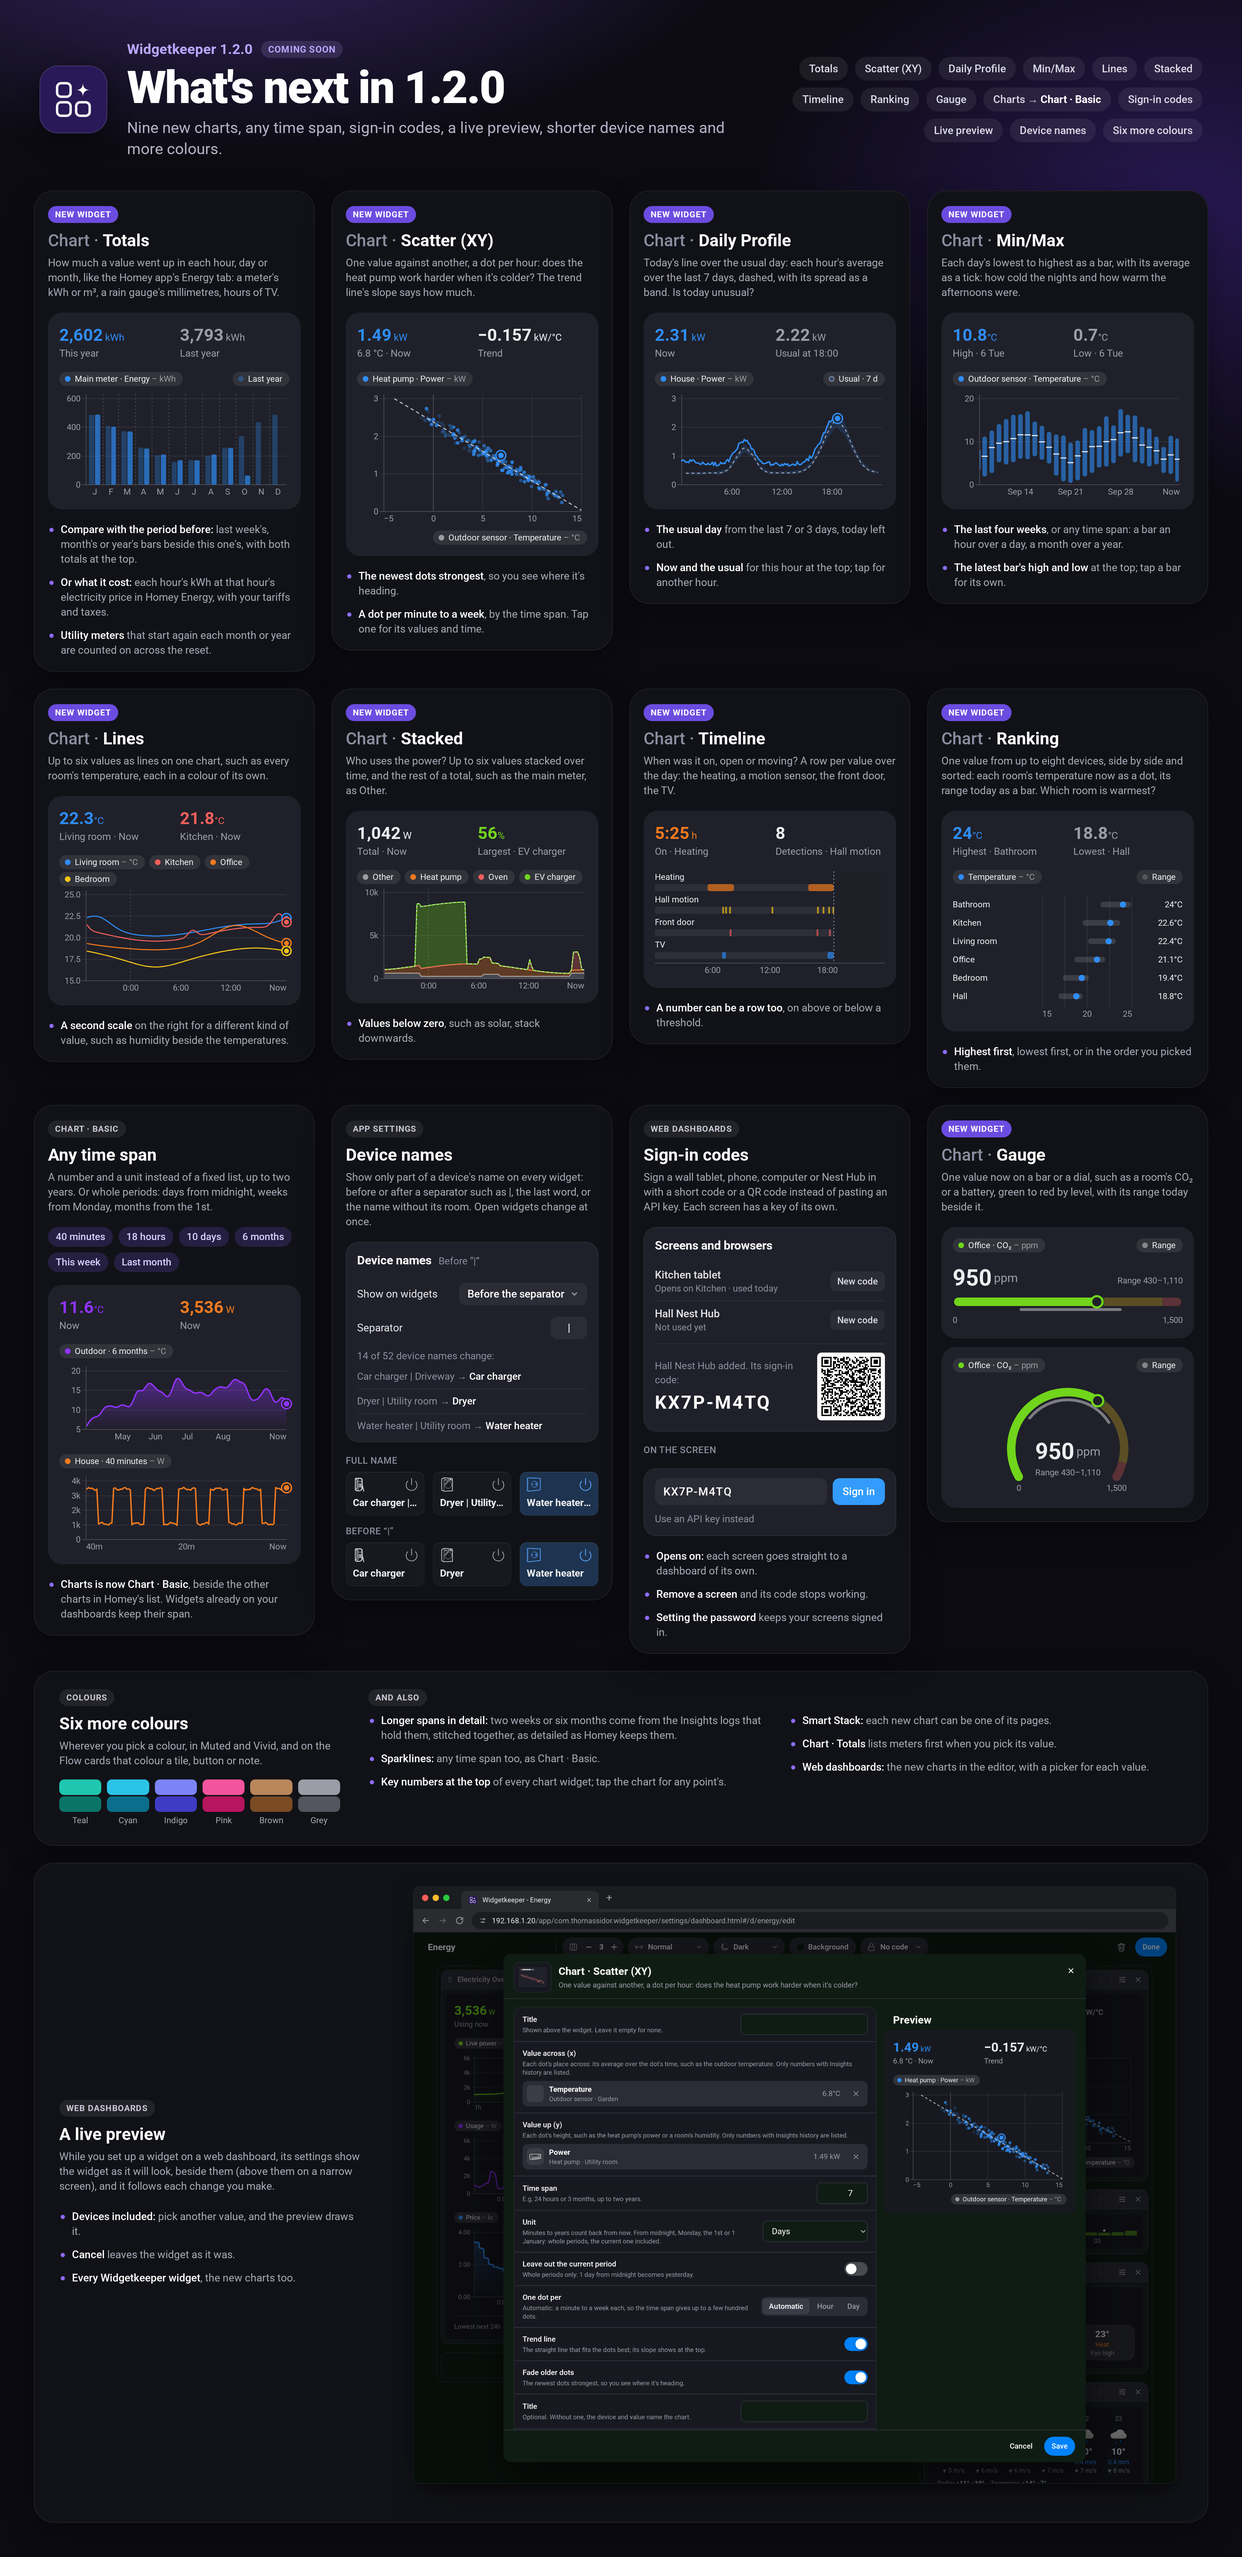
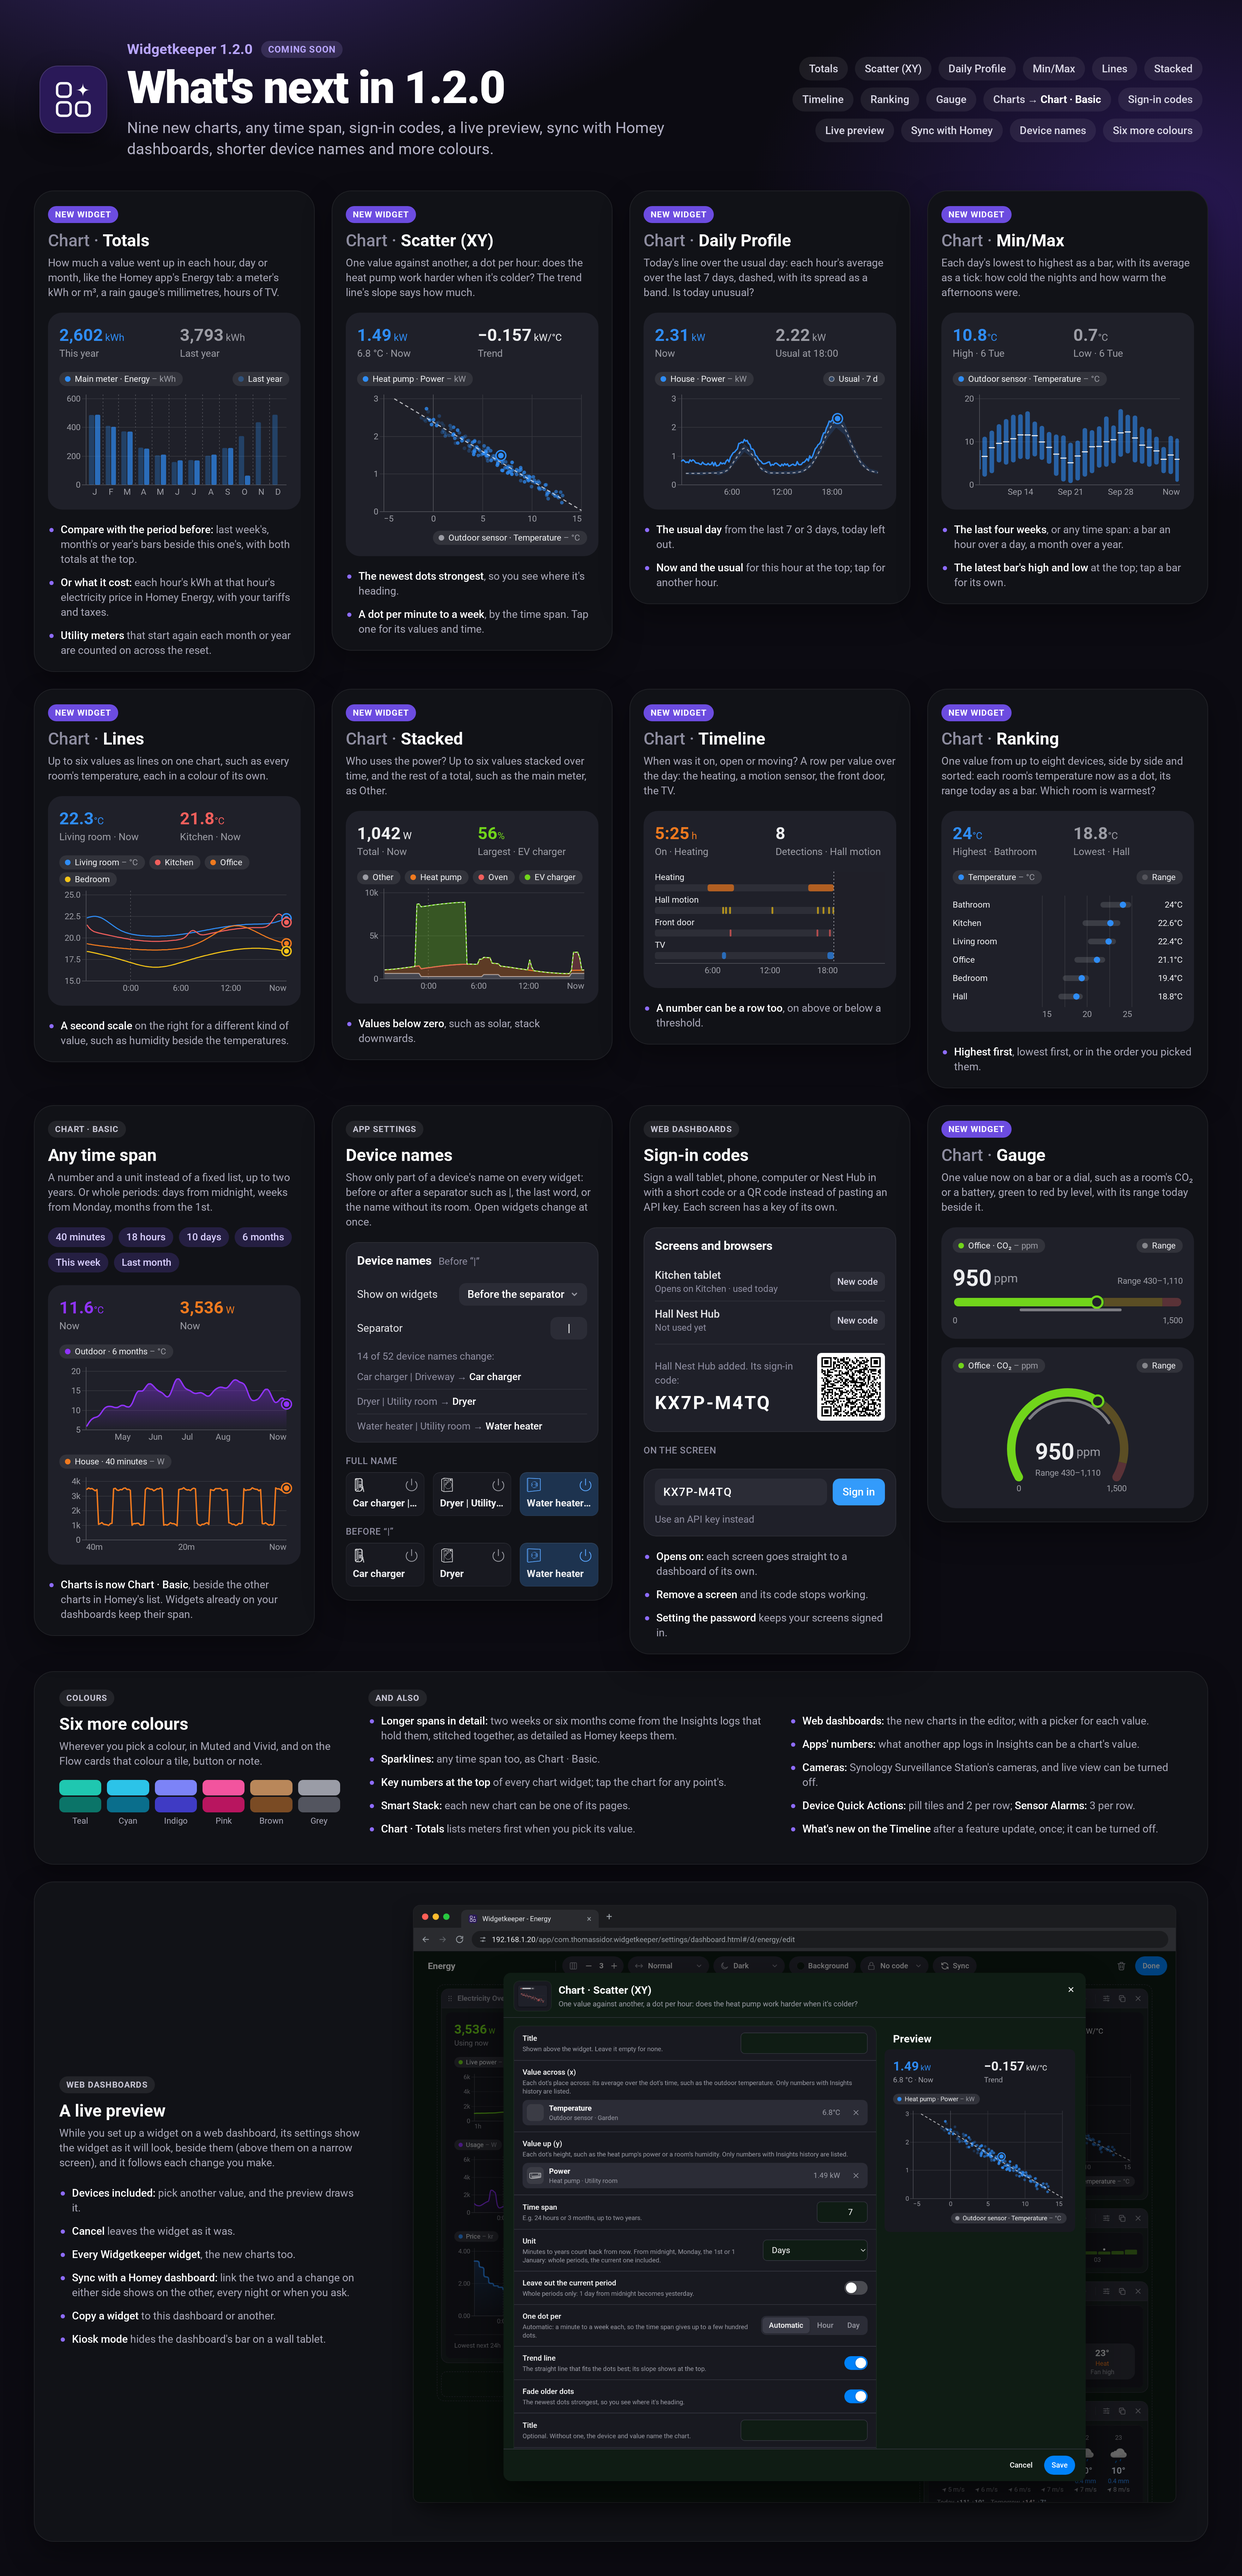
1.2.0 teaser: sync with Homey dashboards, copy a widget, kiosk mode and the rest of 1.2.0
The header and the web dashboards panel name syncing, copying a widget and kiosk mode; And also adds apps' logged
numbers as chart values, Cameras (Synology, live view off), Quick Actions' pill tiles and Sensor Alarms' 3 per row,
and the Timeline update notice. The live preview re-rendered, its toolbar now with Sync.

diff --git a/dev/whats-next-1.2.0.html b/dev/whats-next-1.2.0.html
@@ -173,12 +173,12 @@
     <div>
       <div class="eyebrow">Widgetkeeper 1.2.0 <span>Coming soon</span></div>
       <h1>What's next in 1.2.0</h1>
-      <p>Nine new charts, any time span, sign-in codes, a live preview, shorter device names and more colours.</p>
+      <p>Nine new charts, any time span, sign-in codes, a live preview, sync with Homey dashboards, shorter device names and more colours.</p>
     </div>
     <div class="chips">
       <span>Totals</span><span>Scatter (XY)</span><span>Daily Profile</span><span>Min/Max</span>
       <span>Lines</span><span>Stacked</span><span>Timeline</span><span>Ranking</span><span>Gauge</span>
-      <span>Charts → <b>Chart · Basic</b></span><span>Sign-in codes</span><span>Live preview</span><span>Device names</span><span>Six more colours</span>
+      <span>Charts → <b>Chart · Basic</b></span><span>Sign-in codes</span><span>Live preview</span><span>Sync with Homey</span><span>Device names</span><span>Six more colours</span>
     </div>
   </header>
 
@@ -386,6 +386,10 @@
         <li><b>Smart Stack:</b> each new chart can be one of its pages.</li>
         <li><b>Chart · Totals</b> lists meters first when you pick its value.</li>
         <li><b>Web dashboards:</b> the new charts in the editor, with a picker for each value.</li>
+        <li><b>Apps' numbers:</b> what another app logs in Insights can be a chart's value.</li>
+        <li><b>Cameras:</b> Synology Surveillance Station's cameras, and live view can be turned off.</li>
+        <li><b>Device Quick Actions:</b> pill tiles and 2 per row; <b>Sensor Alarms:</b> 3 per row.</li>
+        <li><b>What's new on the Timeline</b> after a feature update, once; it can be turned off.</li>
       </ul>
     </div>
   </section>
@@ -399,6 +403,9 @@
         <li><b>Devices included:</b> pick another value, and the preview draws it.</li>
         <li><b>Cancel</b> leaves the widget as it was.</li>
         <li><b>Every Widgetkeeper widget</b>, the new charts too.</li>
+        <li><b>Sync with a Homey dashboard:</b> link the two and a change on either side shows on the other, every night or when you ask.</li>
+        <li><b>Copy a widget</b> to this dashboard or another.</li>
+        <li><b>Kiosk mode</b> hides the dashboard's bar on a wall tablet.</li>
       </ul>
     </div>
     <img src="../docs/web/preview.png" alt="">

diff --git a/.claude/rules/renders.md b/.claude/rules/renders.md
@@ -22,4 +22,4 @@ paths:
 - `npm run forum-images`: `docs/forum/<showcase|web>-<id>.jpg` for the Homey Community post: the transparent showcase and web PNGs on the App Store images' brand background (`background()` from `scripts/app-images.mjs`), 1380 px wide (2x the post's 690), JPEG 88. Discourse turns a large transparent PNG into a JPEG on white, which showed the first post's tablet in a white box (2026-10-19). Run it after `showcase` and `web-showcase`.
 - `npm run whats-new`: the 1.0.0 poster `docs/whats-new-1.0.0.png` from `dev/whats-new.html` (needs `docs/web/settings.png`). Opaque, so it goes in the forum as it is. Its Light Controls take the showcase's devices by the `dusk` palette alone: since the Evening's widget became Lights by Room (1.1.0) a `type === 'lights'` match found none, and the page threw before reporting its size (`No size for the poster`, found 2026-11-03).
 - `npm run whats-next [-- 1.1.0]`: a release's teaser `docs/whats-next-<version>.png` from `dev/whats-next-<version>.html` (`TEASERS` in the script: each version and the web showcase view it needs; default the latest). 1.1.0's, in the 1.0.0 poster's look: A row of the new widgets (Pollen and UV, Lights by Room with the dev page's drawn zone icons, Web Page, Keypad as in the README screenshot), the Popups panel (the real prompt page in a drawn phone, the hallway camera's made-up picture `dev/cameras/door.webp`, a question and a message, its Flow cards drawn), a row of improvements (Quick Actions' *Activate with* with the front door asking *Tap again*, clicked 2 s in as it asks for 3 s, credited to @stefan-schweiger; Thermostat Presets with its three Flow cards drawn; Charts on Today, the showcase's day; an And also list), and the web dashboards panel (`docs/web/wide.png`, `npm run web-showcase -- wide`: Energy with its chart across two columns). The page fetches the picture, so the script serves the repo root (`withServer()`). Opaque, like the 1.0.0 one.
-- 1.2.0's teaser (`npm run whats-next`, needs `docs/web/preview.png`), in the same look: a row of four new charts (Totals, Scatter (XY), Daily Profile, Min/Max), a row of four more (Lines, Stacked, Timeline, Ranking; updated 2026-10-31, after the last three and the sign-in codes came), then a row with Chart · Basic's free spans (a few as chips; two stacked charts of 6 months and 40 minutes, their readings made up in the page, their values now the showcase's 11.6 °C and 3,536 W), Device names (the settings page's card drawn, Energy's Quick Actions with a room after a `|` in full and before it), Sign-in codes (the settings page's Screens and browsers drawn with a made-up code `KX7P-M4TQ` and the preview's made-up home address with it as a real QR code from `settings/qrcode.js`, the kitchen tablet's *Opens on*, and the page's code field) and Chart · Gauge (the README screenshots' office CO₂, bar and dial), then a full-width strip of the six new colours (kit.css's bright over shade swatches) beside the And also list in two columns, then the web dashboards panel with the live preview. Gauge, Totals' cost, Opens on, the room mode, Sparklines' spans and the colours came the same evening (2026-10-31); the strip keeps the fourth column as short as the others. Each new chart is its README screenshot's mount (`mock-*.js`, the `h2` with a quieter `Chart ·`). No file is fetched, but the script serves the repo root for both. Byte-identical between runs.
+- 1.2.0's teaser (`npm run whats-next`, needs `docs/web/preview.png`), in the same look: a row of four new charts (Totals, Scatter (XY), Daily Profile, Min/Max), a row of four more (Lines, Stacked, Timeline, Ranking; updated 2026-10-31, after the last three and the sign-in codes came), then a row with Chart · Basic's free spans (a few as chips; two stacked charts of 6 months and 40 minutes, their readings made up in the page, their values now the showcase's 11.6 °C and 3,536 W), Device names (the settings page's card drawn, Energy's Quick Actions with a room after a `|` in full and before it), Sign-in codes (the settings page's Screens and browsers drawn with a made-up code `KX7P-M4TQ` and the preview's made-up home address with it as a real QR code from `settings/qrcode.js`, the kitchen tablet's *Opens on*, and the page's code field) and Chart · Gauge (the README screenshots' office CO₂, bar and dial), then a full-width strip of the six new colours (kit.css's bright over shade swatches) beside the And also list in two columns, then the web dashboards panel with the live preview. Gauge, Totals' cost, Opens on, the room mode, Sparklines' spans and the colours came the same evening (2026-10-31); the strip keeps the fourth column as short as the others. On 2026-11-03 the rest of 1.2.0 came in: Sync with Homey in the header, apps' numbers, Cameras, the tiles per row and the Timeline notice in And also, and syncing, copying a widget and kiosk mode under the live preview, whose `docs/web/preview.png` was rendered again (its toolbar now has Sync). Each new chart is its README screenshot's mount (`mock-*.js`, the `h2` with a quieter `Chart ·`). No file is fetched, but the script serves the repo root for both. Byte-identical between runs.
